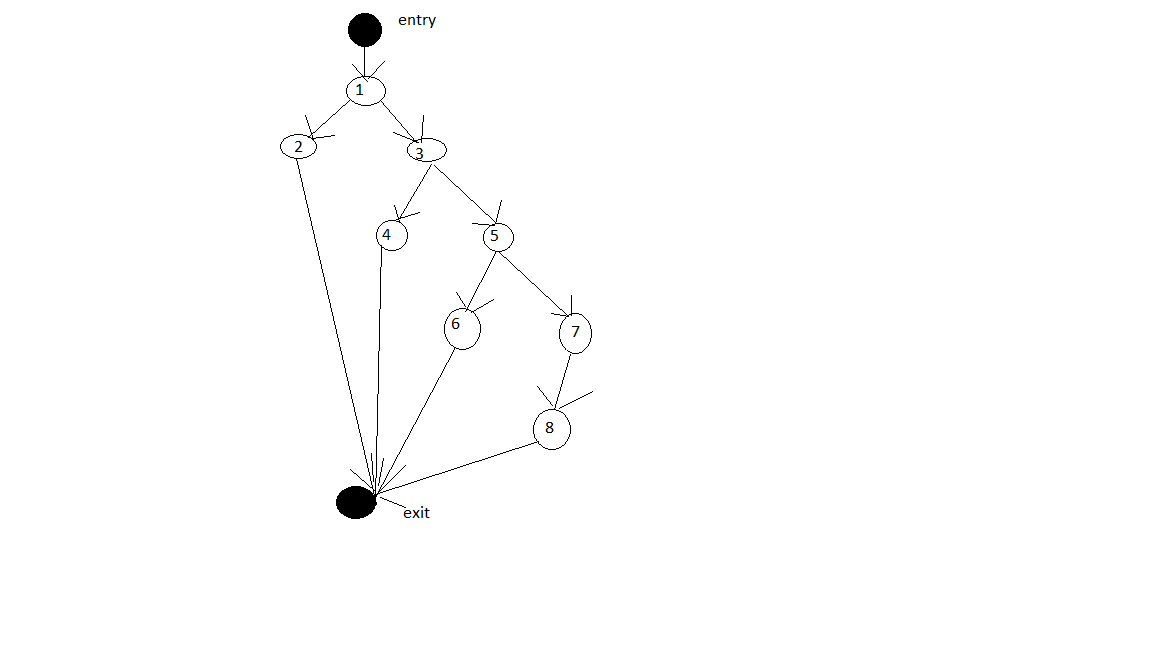
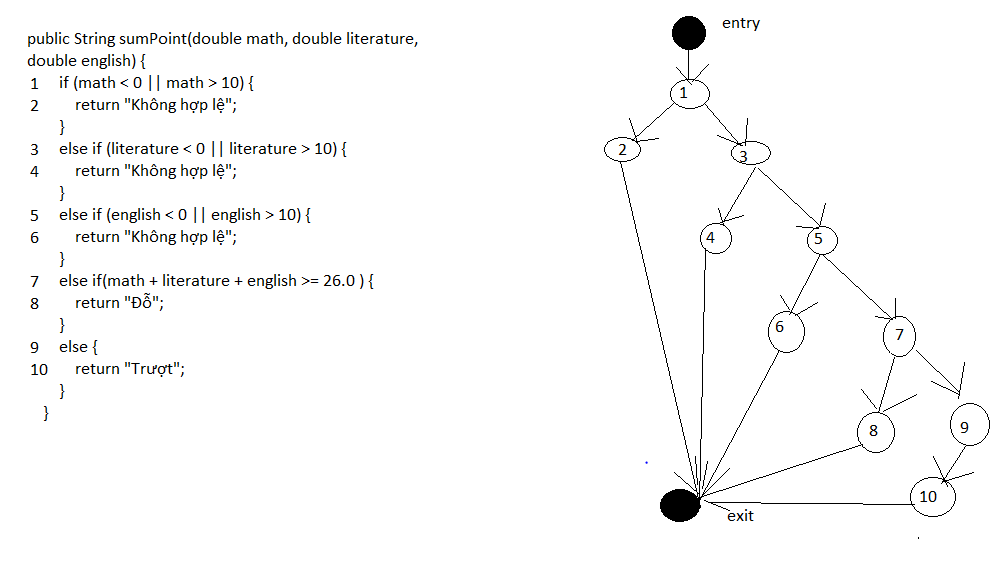
edit cfg lần 2

diff --git a/README.md b/README.md
@@ -38,4 +38,5 @@ Dựa vào phương pháp phân hoạch tương đương mạnh ta có bảng sa
 |  5.0 |    5.0  |    -5.0   | Không hợp lệ  | Không hợp lệ    |
 |  5.0 |    5.0  |    15.0   | Không hợp lệ  | Không hợp lệ    |
 ### 3. Dựa vào dòng điều khiển
-<img src="img/CFG.png" width=50% height=50%>
+Dưới đây là đồ thị dòng điều khiển của chương trình
+<img src="img/CFG.png" width=75% height=75%>
